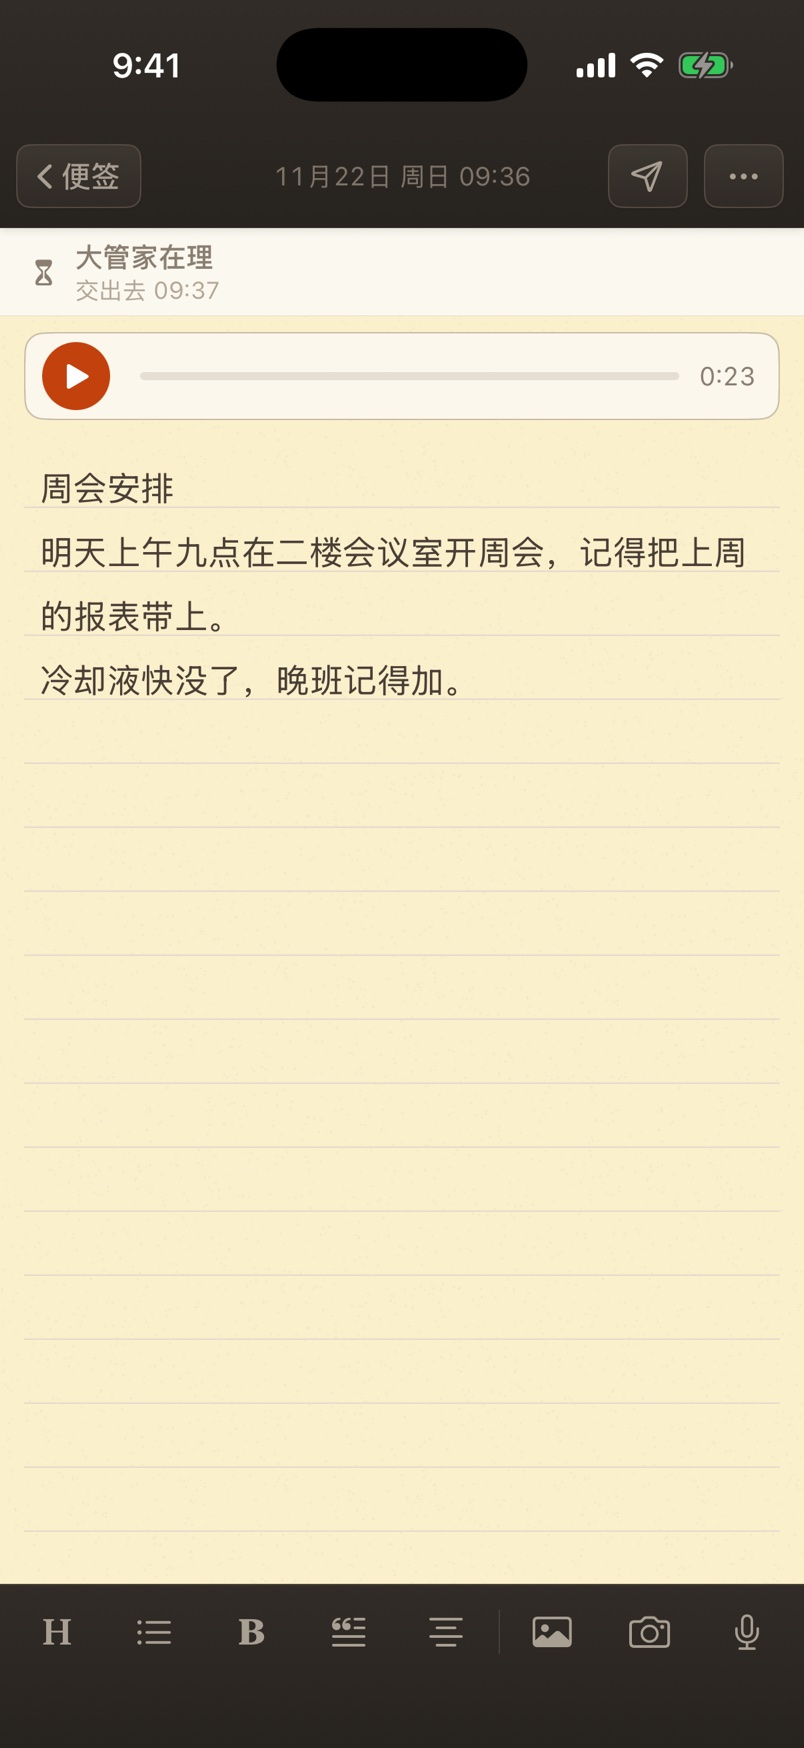
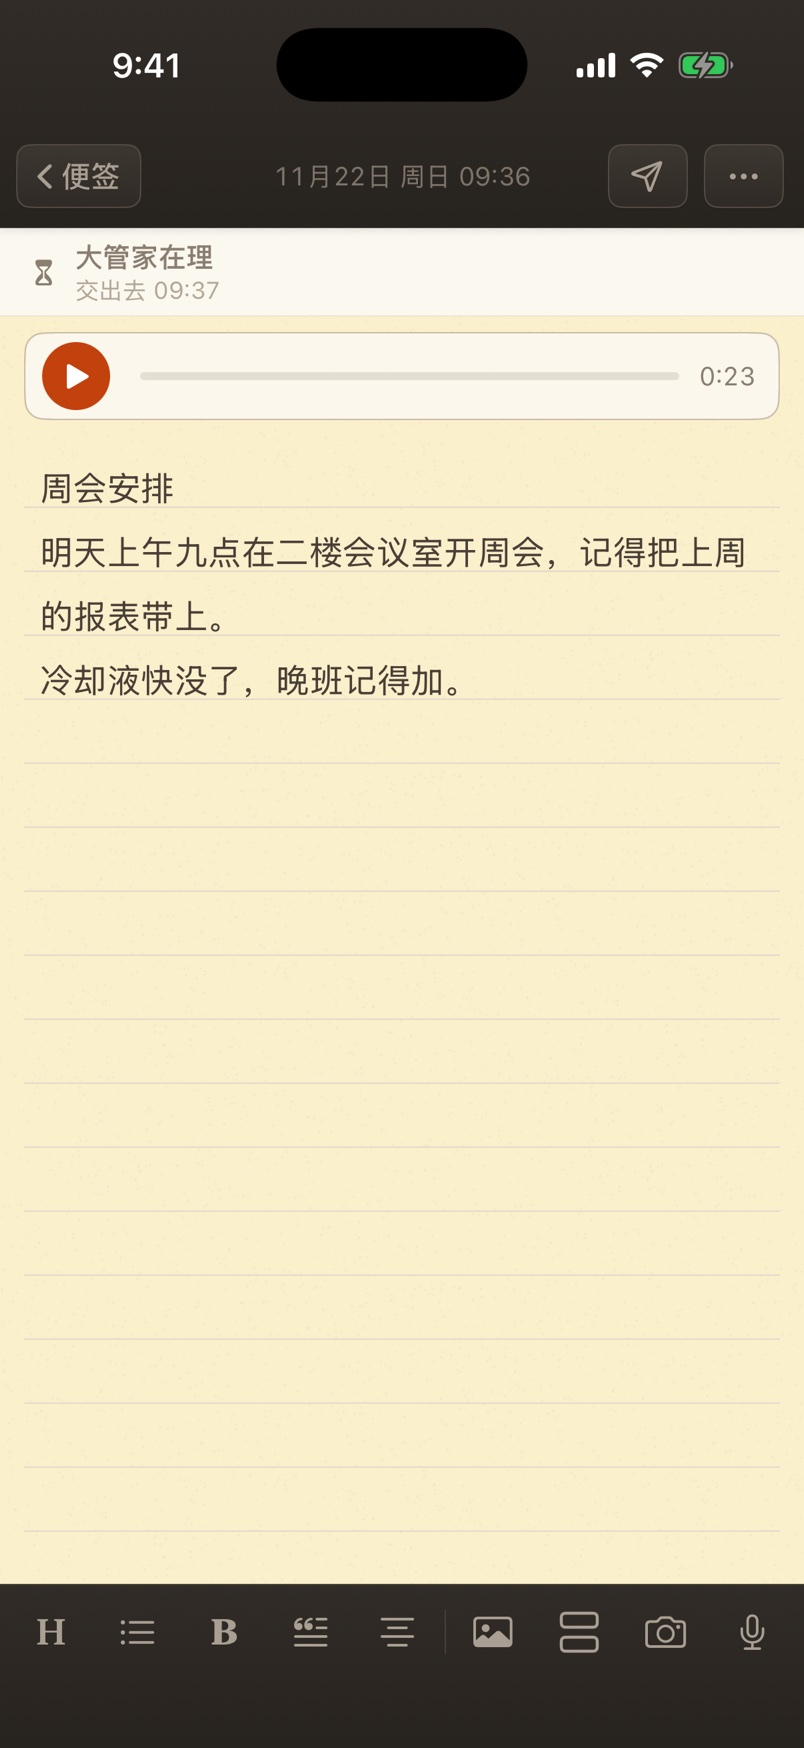
iOS 截图：f0548af [skip ci]

diff --git a/ios/shots/index.html b/ios/shots/index.html
@@ -26,18 +26,18 @@ figcaption { text-align:center; color:var(--ink2); font-size:14px; margin-top:6p
 <body>
 <header>
 <h1>一叶笺 iPhone · 最新样子</h1>
-<p class="meta">0.5.0 · 提交 14554b7 · 11-22 00:41（新加坡时间）</p>
-<p class="changed">这次改了：信箱端到端：e2e.sh 的变量全加花括号（macOS 的 bash 3.2 把紧跟的中文当变量名）；手机探针能对真掌机跑（photo / text / speak，没有假掌机的时间就只列总的）</p>
+<p class="meta">0.5.1 · 提交 f0548af · 11-22 11:56（新加坡时间）</p>
+<p class="changed">这次改了：0.5.1：拍照钮里的「从相册选」点了没反应修好；插图默认上下空一格，加「靠拢 / 空一格」间距键</p>
 <p class="meta">拍照认字认对：印刷 99%，手写 89% · 48 张截图，CI 每次自动换</p>
 </header>
 <nav>
 <button data-lang="zh" aria-pressed="true">中文</button><button data-lang="en" aria-pressed="false">English</button>
 <button data-look="light" aria-pressed="true">浅色</button><button data-look="dark" aria-pressed="false">深色</button>
 </nav>
-<section class="set" data-set="zh-light"><figure><img src="zh-light/01-list.jpg?v=14554b7" alt="列表" loading="lazy" width="402" height="874"><figcaption>列表</figcaption></figure><figure><img src="zh-light/02-editor.jpg?v=14554b7" alt="写字页" loading="lazy" width="402" height="874"><figcaption>写字页</figcaption></figure><figure><img src="zh-light/03-markdown.jpg?v=14554b7" alt="Markdown 五招" loading="lazy" width="402" height="874"><figcaption>Markdown 五招</figcaption></figure><figure><img src="zh-light/04-ocr.jpg?v=14554b7" alt="拍照认字" loading="lazy" width="402" height="874"><figcaption>拍照认字</figcaption></figure><figure><img src="zh-light/05-share-note.jpg?v=14554b7" alt="分享成图 · 便签" loading="lazy" width="402" height="874"><figcaption>分享成图 · 便签</figcaption></figure><figure><img src="zh-light/06-share-white.jpg?v=14554b7" alt="分享成图 · 白纸" loading="lazy" width="402" height="874"><figcaption>分享成图 · 白纸</figcaption></figure><figure><img src="zh-light/07-settings.jpg?v=14554b7" alt="设置" loading="lazy" width="402" height="874"><figcaption>设置</figcaption></figure><figure><img src="zh-light/08-butler.jpg?v=14554b7" alt="大管家" loading="lazy" width="402" height="874"><figcaption>大管家</figcaption></figure><figure><img src="zh-light/09-voice.jpg?v=14554b7" alt="录一段" loading="lazy" width="402" height="874"><figcaption>录一段</figcaption></figure><figure><img src="zh-light/10-voice-note.jpg?v=14554b7" alt="录音笔记" loading="lazy" width="402" height="874"><figcaption>录音笔记</figcaption></figure><figure><img src="zh-light/11-listen.jpg?v=14554b7" alt="听力列表" loading="lazy" width="402" height="874"><figcaption>听力列表</figcaption></figure><figure><img src="zh-light/12-listen-text.jpg?v=14554b7" alt="听力 · 原文" loading="lazy" width="402" height="874"><figcaption>听力 · 原文</figcaption></figure></section>
-<section class="set" data-set="zh-dark" hidden><figure><img src="zh-dark/01-list.jpg?v=14554b7" alt="列表" loading="lazy" width="402" height="874"><figcaption>列表</figcaption></figure><figure><img src="zh-dark/02-editor.jpg?v=14554b7" alt="写字页" loading="lazy" width="402" height="874"><figcaption>写字页</figcaption></figure><figure><img src="zh-dark/03-markdown.jpg?v=14554b7" alt="Markdown 五招" loading="lazy" width="402" height="874"><figcaption>Markdown 五招</figcaption></figure><figure><img src="zh-dark/04-ocr.jpg?v=14554b7" alt="拍照认字" loading="lazy" width="402" height="874"><figcaption>拍照认字</figcaption></figure><figure><img src="zh-dark/05-share-note.jpg?v=14554b7" alt="分享成图 · 便签" loading="lazy" width="402" height="874"><figcaption>分享成图 · 便签</figcaption></figure><figure><img src="zh-dark/06-share-white.jpg?v=14554b7" alt="分享成图 · 白纸" loading="lazy" width="402" height="874"><figcaption>分享成图 · 白纸</figcaption></figure><figure><img src="zh-dark/07-settings.jpg?v=14554b7" alt="设置" loading="lazy" width="402" height="874"><figcaption>设置</figcaption></figure><figure><img src="zh-dark/08-butler.jpg?v=14554b7" alt="大管家" loading="lazy" width="402" height="874"><figcaption>大管家</figcaption></figure><figure><img src="zh-dark/09-voice.jpg?v=14554b7" alt="录一段" loading="lazy" width="402" height="874"><figcaption>录一段</figcaption></figure><figure><img src="zh-dark/10-voice-note.jpg?v=14554b7" alt="录音笔记" loading="lazy" width="402" height="874"><figcaption>录音笔记</figcaption></figure><figure><img src="zh-dark/11-listen.jpg?v=14554b7" alt="听力列表" loading="lazy" width="402" height="874"><figcaption>听力列表</figcaption></figure><figure><img src="zh-dark/12-listen-text.jpg?v=14554b7" alt="听力 · 原文" loading="lazy" width="402" height="874"><figcaption>听力 · 原文</figcaption></figure></section>
-<section class="set" data-set="en-light" hidden><figure><img src="en-light/01-list.jpg?v=14554b7" alt="列表" loading="lazy" width="402" height="874"><figcaption>列表</figcaption></figure><figure><img src="en-light/02-editor.jpg?v=14554b7" alt="写字页" loading="lazy" width="402" height="874"><figcaption>写字页</figcaption></figure><figure><img src="en-light/03-markdown.jpg?v=14554b7" alt="Markdown 五招" loading="lazy" width="402" height="874"><figcaption>Markdown 五招</figcaption></figure><figure><img src="en-light/04-ocr.jpg?v=14554b7" alt="拍照认字" loading="lazy" width="402" height="874"><figcaption>拍照认字</figcaption></figure><figure><img src="en-light/05-share-note.jpg?v=14554b7" alt="分享成图 · 便签" loading="lazy" width="402" height="874"><figcaption>分享成图 · 便签</figcaption></figure><figure><img src="en-light/06-share-white.jpg?v=14554b7" alt="分享成图 · 白纸" loading="lazy" width="402" height="874"><figcaption>分享成图 · 白纸</figcaption></figure><figure><img src="en-light/07-settings.jpg?v=14554b7" alt="设置" loading="lazy" width="402" height="874"><figcaption>设置</figcaption></figure><figure><img src="en-light/08-butler.jpg?v=14554b7" alt="大管家" loading="lazy" width="402" height="874"><figcaption>大管家</figcaption></figure><figure><img src="en-light/09-voice.jpg?v=14554b7" alt="录一段" loading="lazy" width="402" height="874"><figcaption>录一段</figcaption></figure><figure><img src="en-light/10-voice-note.jpg?v=14554b7" alt="录音笔记" loading="lazy" width="402" height="874"><figcaption>录音笔记</figcaption></figure><figure><img src="en-light/11-listen.jpg?v=14554b7" alt="听力列表" loading="lazy" width="402" height="874"><figcaption>听力列表</figcaption></figure><figure><img src="en-light/12-listen-text.jpg?v=14554b7" alt="听力 · 原文" loading="lazy" width="402" height="874"><figcaption>听力 · 原文</figcaption></figure></section>
-<section class="set" data-set="en-dark" hidden><figure><img src="en-dark/01-list.jpg?v=14554b7" alt="列表" loading="lazy" width="402" height="874"><figcaption>列表</figcaption></figure><figure><img src="en-dark/02-editor.jpg?v=14554b7" alt="写字页" loading="lazy" width="402" height="874"><figcaption>写字页</figcaption></figure><figure><img src="en-dark/03-markdown.jpg?v=14554b7" alt="Markdown 五招" loading="lazy" width="402" height="874"><figcaption>Markdown 五招</figcaption></figure><figure><img src="en-dark/04-ocr.jpg?v=14554b7" alt="拍照认字" loading="lazy" width="402" height="874"><figcaption>拍照认字</figcaption></figure><figure><img src="en-dark/05-share-note.jpg?v=14554b7" alt="分享成图 · 便签" loading="lazy" width="402" height="874"><figcaption>分享成图 · 便签</figcaption></figure><figure><img src="en-dark/06-share-white.jpg?v=14554b7" alt="分享成图 · 白纸" loading="lazy" width="402" height="874"><figcaption>分享成图 · 白纸</figcaption></figure><figure><img src="en-dark/07-settings.jpg?v=14554b7" alt="设置" loading="lazy" width="402" height="874"><figcaption>设置</figcaption></figure><figure><img src="en-dark/08-butler.jpg?v=14554b7" alt="大管家" loading="lazy" width="402" height="874"><figcaption>大管家</figcaption></figure><figure><img src="en-dark/09-voice.jpg?v=14554b7" alt="录一段" loading="lazy" width="402" height="874"><figcaption>录一段</figcaption></figure><figure><img src="en-dark/10-voice-note.jpg?v=14554b7" alt="录音笔记" loading="lazy" width="402" height="874"><figcaption>录音笔记</figcaption></figure><figure><img src="en-dark/11-listen.jpg?v=14554b7" alt="听力列表" loading="lazy" width="402" height="874"><figcaption>听力列表</figcaption></figure><figure><img src="en-dark/12-listen-text.jpg?v=14554b7" alt="听力 · 原文" loading="lazy" width="402" height="874"><figcaption>听力 · 原文</figcaption></figure></section>
+<section class="set" data-set="zh-light"><figure><img src="zh-light/01-list.jpg?v=f0548af" alt="列表" loading="lazy" width="402" height="874"><figcaption>列表</figcaption></figure><figure><img src="zh-light/02-editor.jpg?v=f0548af" alt="写字页" loading="lazy" width="402" height="874"><figcaption>写字页</figcaption></figure><figure><img src="zh-light/03-markdown.jpg?v=f0548af" alt="Markdown 五招" loading="lazy" width="402" height="874"><figcaption>Markdown 五招</figcaption></figure><figure><img src="zh-light/04-ocr.jpg?v=f0548af" alt="拍照认字" loading="lazy" width="402" height="874"><figcaption>拍照认字</figcaption></figure><figure><img src="zh-light/05-share-note.jpg?v=f0548af" alt="分享成图 · 便签" loading="lazy" width="402" height="874"><figcaption>分享成图 · 便签</figcaption></figure><figure><img src="zh-light/06-share-white.jpg?v=f0548af" alt="分享成图 · 白纸" loading="lazy" width="402" height="874"><figcaption>分享成图 · 白纸</figcaption></figure><figure><img src="zh-light/07-settings.jpg?v=f0548af" alt="设置" loading="lazy" width="402" height="874"><figcaption>设置</figcaption></figure><figure><img src="zh-light/08-butler.jpg?v=f0548af" alt="大管家" loading="lazy" width="402" height="874"><figcaption>大管家</figcaption></figure><figure><img src="zh-light/09-voice.jpg?v=f0548af" alt="录一段" loading="lazy" width="402" height="874"><figcaption>录一段</figcaption></figure><figure><img src="zh-light/10-voice-note.jpg?v=f0548af" alt="录音笔记" loading="lazy" width="402" height="874"><figcaption>录音笔记</figcaption></figure><figure><img src="zh-light/11-listen.jpg?v=f0548af" alt="听力列表" loading="lazy" width="402" height="874"><figcaption>听力列表</figcaption></figure><figure><img src="zh-light/12-listen-text.jpg?v=f0548af" alt="听力 · 原文" loading="lazy" width="402" height="874"><figcaption>听力 · 原文</figcaption></figure></section>
+<section class="set" data-set="zh-dark" hidden><figure><img src="zh-dark/01-list.jpg?v=f0548af" alt="列表" loading="lazy" width="402" height="874"><figcaption>列表</figcaption></figure><figure><img src="zh-dark/02-editor.jpg?v=f0548af" alt="写字页" loading="lazy" width="402" height="874"><figcaption>写字页</figcaption></figure><figure><img src="zh-dark/03-markdown.jpg?v=f0548af" alt="Markdown 五招" loading="lazy" width="402" height="874"><figcaption>Markdown 五招</figcaption></figure><figure><img src="zh-dark/04-ocr.jpg?v=f0548af" alt="拍照认字" loading="lazy" width="402" height="874"><figcaption>拍照认字</figcaption></figure><figure><img src="zh-dark/05-share-note.jpg?v=f0548af" alt="分享成图 · 便签" loading="lazy" width="402" height="874"><figcaption>分享成图 · 便签</figcaption></figure><figure><img src="zh-dark/06-share-white.jpg?v=f0548af" alt="分享成图 · 白纸" loading="lazy" width="402" height="874"><figcaption>分享成图 · 白纸</figcaption></figure><figure><img src="zh-dark/07-settings.jpg?v=f0548af" alt="设置" loading="lazy" width="402" height="874"><figcaption>设置</figcaption></figure><figure><img src="zh-dark/08-butler.jpg?v=f0548af" alt="大管家" loading="lazy" width="402" height="874"><figcaption>大管家</figcaption></figure><figure><img src="zh-dark/09-voice.jpg?v=f0548af" alt="录一段" loading="lazy" width="402" height="874"><figcaption>录一段</figcaption></figure><figure><img src="zh-dark/10-voice-note.jpg?v=f0548af" alt="录音笔记" loading="lazy" width="402" height="874"><figcaption>录音笔记</figcaption></figure><figure><img src="zh-dark/11-listen.jpg?v=f0548af" alt="听力列表" loading="lazy" width="402" height="874"><figcaption>听力列表</figcaption></figure><figure><img src="zh-dark/12-listen-text.jpg?v=f0548af" alt="听力 · 原文" loading="lazy" width="402" height="874"><figcaption>听力 · 原文</figcaption></figure></section>
+<section class="set" data-set="en-light" hidden><figure><img src="en-light/01-list.jpg?v=f0548af" alt="列表" loading="lazy" width="402" height="874"><figcaption>列表</figcaption></figure><figure><img src="en-light/02-editor.jpg?v=f0548af" alt="写字页" loading="lazy" width="402" height="874"><figcaption>写字页</figcaption></figure><figure><img src="en-light/03-markdown.jpg?v=f0548af" alt="Markdown 五招" loading="lazy" width="402" height="874"><figcaption>Markdown 五招</figcaption></figure><figure><img src="en-light/04-ocr.jpg?v=f0548af" alt="拍照认字" loading="lazy" width="402" height="874"><figcaption>拍照认字</figcaption></figure><figure><img src="en-light/05-share-note.jpg?v=f0548af" alt="分享成图 · 便签" loading="lazy" width="402" height="874"><figcaption>分享成图 · 便签</figcaption></figure><figure><img src="en-light/06-share-white.jpg?v=f0548af" alt="分享成图 · 白纸" loading="lazy" width="402" height="874"><figcaption>分享成图 · 白纸</figcaption></figure><figure><img src="en-light/07-settings.jpg?v=f0548af" alt="设置" loading="lazy" width="402" height="874"><figcaption>设置</figcaption></figure><figure><img src="en-light/08-butler.jpg?v=f0548af" alt="大管家" loading="lazy" width="402" height="874"><figcaption>大管家</figcaption></figure><figure><img src="en-light/09-voice.jpg?v=f0548af" alt="录一段" loading="lazy" width="402" height="874"><figcaption>录一段</figcaption></figure><figure><img src="en-light/10-voice-note.jpg?v=f0548af" alt="录音笔记" loading="lazy" width="402" height="874"><figcaption>录音笔记</figcaption></figure><figure><img src="en-light/11-listen.jpg?v=f0548af" alt="听力列表" loading="lazy" width="402" height="874"><figcaption>听力列表</figcaption></figure><figure><img src="en-light/12-listen-text.jpg?v=f0548af" alt="听力 · 原文" loading="lazy" width="402" height="874"><figcaption>听力 · 原文</figcaption></figure></section>
+<section class="set" data-set="en-dark" hidden><figure><img src="en-dark/01-list.jpg?v=f0548af" alt="列表" loading="lazy" width="402" height="874"><figcaption>列表</figcaption></figure><figure><img src="en-dark/02-editor.jpg?v=f0548af" alt="写字页" loading="lazy" width="402" height="874"><figcaption>写字页</figcaption></figure><figure><img src="en-dark/03-markdown.jpg?v=f0548af" alt="Markdown 五招" loading="lazy" width="402" height="874"><figcaption>Markdown 五招</figcaption></figure><figure><img src="en-dark/04-ocr.jpg?v=f0548af" alt="拍照认字" loading="lazy" width="402" height="874"><figcaption>拍照认字</figcaption></figure><figure><img src="en-dark/05-share-note.jpg?v=f0548af" alt="分享成图 · 便签" loading="lazy" width="402" height="874"><figcaption>分享成图 · 便签</figcaption></figure><figure><img src="en-dark/06-share-white.jpg?v=f0548af" alt="分享成图 · 白纸" loading="lazy" width="402" height="874"><figcaption>分享成图 · 白纸</figcaption></figure><figure><img src="en-dark/07-settings.jpg?v=f0548af" alt="设置" loading="lazy" width="402" height="874"><figcaption>设置</figcaption></figure><figure><img src="en-dark/08-butler.jpg?v=f0548af" alt="大管家" loading="lazy" width="402" height="874"><figcaption>大管家</figcaption></figure><figure><img src="en-dark/09-voice.jpg?v=f0548af" alt="录一段" loading="lazy" width="402" height="874"><figcaption>录一段</figcaption></figure><figure><img src="en-dark/10-voice-note.jpg?v=f0548af" alt="录音笔记" loading="lazy" width="402" height="874"><figcaption>录音笔记</figcaption></figure><figure><img src="en-dark/11-listen.jpg?v=f0548af" alt="听力列表" loading="lazy" width="402" height="874"><figcaption>听力列表</figcaption></figure><figure><img src="en-dark/12-listen-text.jpg?v=f0548af" alt="听力 · 原文" loading="lazy" width="402" height="874"><figcaption>听力 · 原文</figcaption></figure></section>
 <script>
 let lang = "zh", look = "light";
 function show() {

diff --git a/ios/shots/ocr/report.md b/ios/shots/ocr/report.md
@@ -4,16 +4,16 @@
 
 | 图 | 类型 | 本机认对 | 标黄段 | 标黄里真错 | 错字被标黄 | 用时 |
 |---|---|---|---|---|---|---|
-| h1 | 手写 | 91% | 2 | 2/2（100%） | 2/3 | 2.4s |
-| h2 | 手写 | 100% | 1 | 0/1（0%） | — | 1.0s |
-| h3 | 手写 | 83% | 2 | 2/2（100%） | 3/4 | 1.2s |
-| h4 | 手写 | 60% | 4 | 4/4（100%） | 8/8 | 1.5s |
-| h5 | 手写 | 100% | 0 | — | — | 1.2s |
-| p1 | 印刷 | 100% | 0 | — | — | 1.1s |
-| p2 | 印刷 | 100% | 1 | 0/1（0%） | — | 0.9s |
-| p3 | 印刷 | 100% | 0 | — | — | 1.1s |
-| p4 | 印刷 | 99% | 0 | — | 0/1 | 1.3s |
-| p5 | 印刷 | 94% | 1 | 1/1（100%） | 2/2 | 1.5s |
+| h1 | 手写 | 91% | 2 | 2/2（100%） | 2/3 | 1.7s |
+| h2 | 手写 | 100% | 1 | 0/1（0%） | — | 0.6s |
+| h3 | 手写 | 83% | 2 | 2/2（100%） | 3/4 | 0.6s |
+| h4 | 手写 | 60% | 4 | 4/4（100%） | 8/8 | 0.6s |
+| h5 | 手写 | 100% | 0 | — | — | 0.7s |
+| p1 | 印刷 | 100% | 0 | — | — | 0.7s |
+| p2 | 印刷 | 100% | 1 | 0/1（0%） | — | 0.7s |
+| p3 | 印刷 | 100% | 0 | — | — | 0.7s |
+| p4 | 印刷 | 99% | 0 | — | 0/1 | 0.7s |
+| p5 | 印刷 | 94% | 1 | 1/1（100%） | 2/2 | 0.8s |
 | **印刷合计** | | **99%** | 2 | 1/2（50%） | 2/3 | |
 | **手写合计** | | **89%** | 9 | 8/9（89%） | 13/15 | |
 

diff --git a/ios/shots/README.md b/ios/shots/README.md
@@ -1,5 +1,5 @@
 # 截图和样张（CI 自动生成，每次覆盖）
 
-- 提交：14554b7
+- 提交：f0548af
 - Xcode 26.6，模拟器：iPhone 17 Pro（iOS-26-5）
 - 目录：zh-light、zh-dark、en-light、en-dark 各 12 张；ocr/ 是 10 张认字样张的结果
